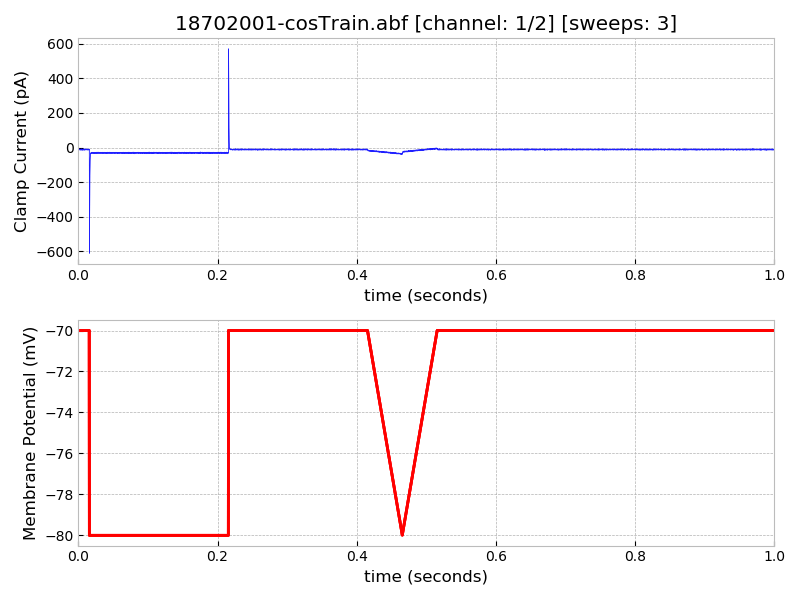
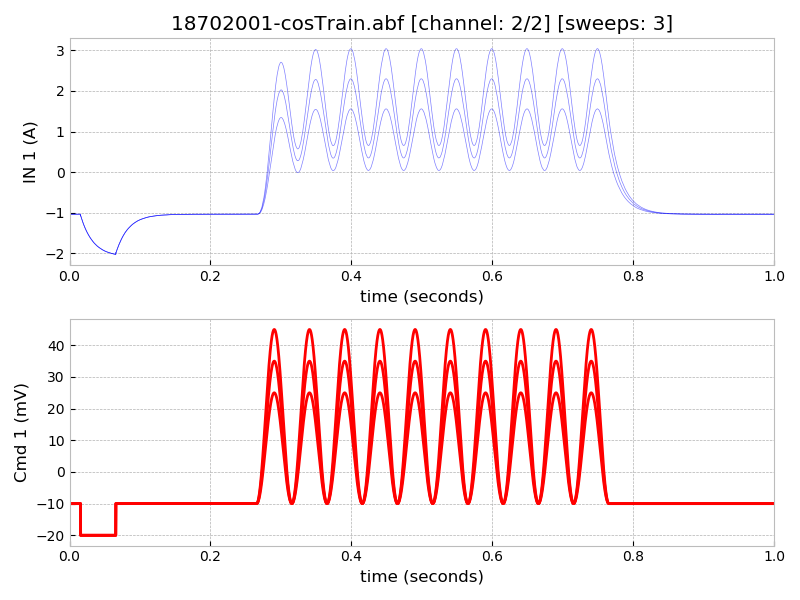
cos train support

diff --git a/data/headers/18702001-cosTrain.html b/data/headers/18702001-cosTrain.html
@@ -34,7 +34,7 @@
 <div class='section'>Epochs for Channel 1</div>
 <pre>
                 Ch1 EPOCH      A      B      C
-                     Type   Step   Step     5?
+                     Type   Step   Step    Cos
          First Level (mV)    -20    -10     25
          Delta Level (mV)      0      0     10
  First Duration (samples)   1000   4000  10000

diff --git a/data/headers/18702001-triangleTrain.html b/data/headers/18702001-triangleTrain.html
@@ -34,7 +34,7 @@
 <div class='section'>Epochs for Channel 1</div>
 <pre>
                 Ch1 EPOCH      A      B      C
-                     Type   Step   Step     4?
+                     Type   Step   Step    Tri
          First Level (mV)    -20    -10     25
          Delta Level (mV)      0      0     10
  First Duration (samples)   1000   4000  10000

diff --git a/src/pyabf/epochs.py b/src/pyabf/epochs.py
@@ -113,6 +113,10 @@ class Epochs:
                     values[i] = "Ramp"
                 elif value == 3:
                     values[i] = "Pulse"
+                elif value == 4:
+                    values[i] = "Tri"
+                elif value == 5:
+                    values[i] = "Cos"
                 else:
                     values[i] = "%d?" % value
 
@@ -229,6 +233,7 @@ class Epochs:
                 pulseCount = 0
             levelOff = levelPreviousEpoch
             levelOn = sweepLevel
+            levelDelta = levelOn - levelOff
 
             # create a numpy array to hold the waveform for only this epoch
             chunk = np.empty(int(i2-i1))
@@ -262,6 +267,15 @@ class Epochs:
                     p3 = int(p1+pulsePeriod)
                     chunk[p1:p2] = np.linspace(levelOff, levelOn, int(p2-p1))
                     chunk[p2:p3] = np.linspace(levelOn, levelOff, int(p3-p2))
+
+            # fill epoch: cosine train
+            elif self.type[epochNumber] == 5:
+                vals = np.linspace(0, 2*pulseCount*np.pi, len(chunk))
+                vals += np.pi
+                cos = np.cos(vals) * levelDelta/2
+                chunk.fill(levelOff)
+                chunk += cos + levelDelta/2
+                
 
             else:
                 # unsupported epoch

diff --git a/data/headers/18702001-cosTrain.md b/data/headers/18702001-cosTrain.md
@@ -77,7 +77,7 @@
 
 ```
                 Ch1 EPOCH      A      B      C
-                     Type   Step   Step     5?
+                     Type   Step   Step    Cos
          First Level (mV)    -20    -10     25
          Delta Level (mV)      0      0     10
  First Duration (samples)   1000   4000  10000

diff --git a/data/headers/18702001-triangleTrain.md b/data/headers/18702001-triangleTrain.md
@@ -77,7 +77,7 @@
 
 ```
                 Ch1 EPOCH      A      B      C
-                     Type   Step   Step     4?
+                     Type   Step   Step    Tri
          First Level (mV)    -20    -10     25
          Delta Level (mV)      0      0     10
  First Duration (samples)   1000   4000  10000
